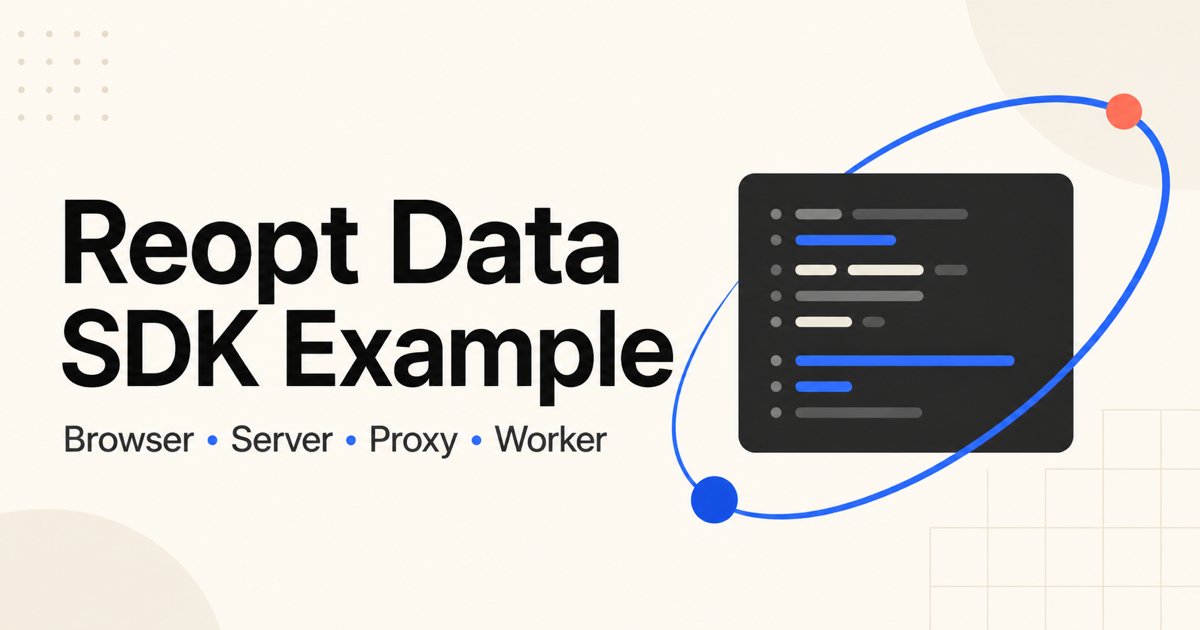
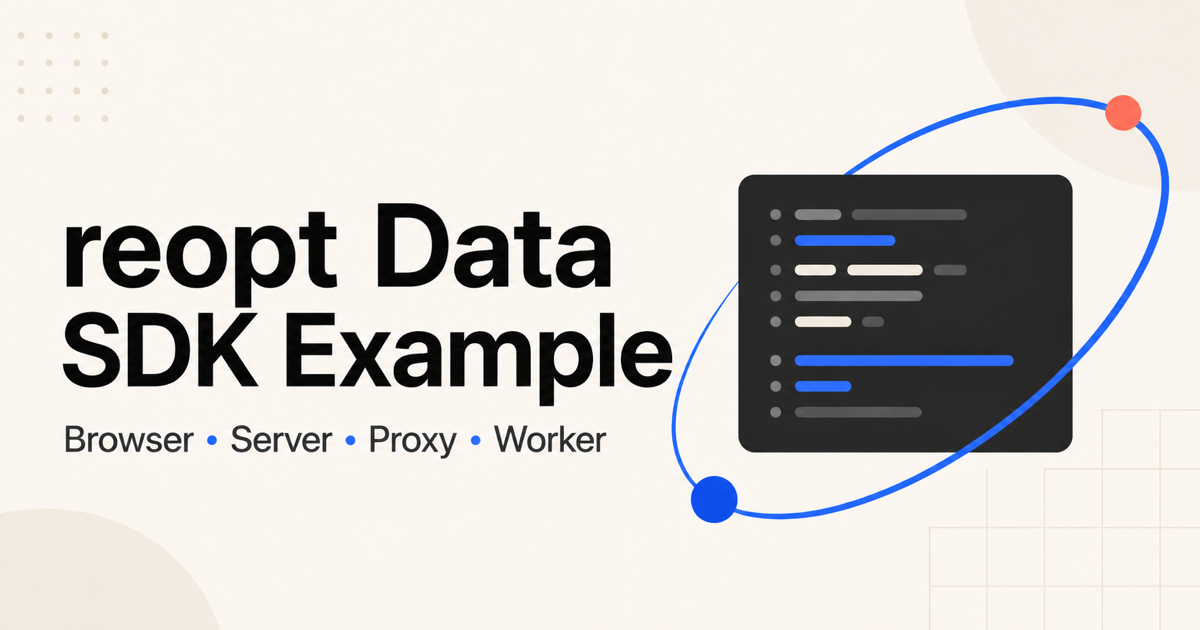
refactor(config): standardize reopt Data naming

diff --git a/scripts/reopt-setup.ts b/scripts/reopt-setup.ts
@@ -3,7 +3,7 @@
  * writes them to `.reopt-local.json` (gitignored).
  *
  *   pnpm reopt:setup                      # http://localhost:4001
- *   REOPT_BASE_URL=… pnpm reopt:setup
+ *   REOPT_DATA_BASE_URL=… pnpm reopt:setup
  *
  * Why a file and not env vars: the write key is resolved *per host* here, the
  * way a multi-brand storefront has to resolve it. The file is that store. It
@@ -16,14 +16,15 @@
 import { writeFileSync } from "node:fs";
 import { join } from "node:path";
 
-const BASE = (process.env.REOPT_BASE_URL ?? "http://localhost:4001").replace(
-  /\/+$/,
-  "",
-);
-const EMAIL = process.env.REOPT_SETUP_EMAIL ?? "shop-example@reopt.local";
-const ORG_NAME = process.env.REOPT_SETUP_ORG ?? "reopt shop example";
-const PROJECT_NAME = process.env.REOPT_SETUP_PROJECT ?? "reopt-shop";
-const HOSTS = (process.env.REOPT_SETUP_HOSTS ?? "localhost:4100,127.0.0.1:4100")
+const BASE = (
+  process.env.REOPT_DATA_BASE_URL ?? "http://localhost:4001"
+).replace(/\/+$/, "");
+const EMAIL = process.env.REOPT_DATA_SETUP_EMAIL ?? "shop-example@reopt.local";
+const ORG_NAME = process.env.REOPT_DATA_SETUP_ORG ?? "reopt shop example";
+const PROJECT_NAME = process.env.REOPT_DATA_SETUP_PROJECT ?? "reopt-shop";
+const HOSTS = (
+  process.env.REOPT_DATA_SETUP_HOSTS ?? "localhost:4100,127.0.0.1:4100"
+)
   .split(",")
   .map((h) => h.trim());
 

diff --git a/app/layout.tsx b/app/layout.tsx
@@ -38,24 +38,24 @@ import { diagnosticsEnabled } from "@/lib/runtime-config";
 export const metadata: Metadata = {
   metadataBase: new URL(process.env.BETTER_AUTH_URL ?? "http://localhost:4100"),
   title: {
-    default: "Arc Supply — Reopt Data SDK Example",
+    default: "Arc Supply — reopt Data SDK Example",
     template: "%s · Arc Supply",
   },
   description:
-    "A production-shaped storefront demonstrating the Reopt Data SDK across browser, server, proxy, and worker boundaries.",
+    "A production-shaped storefront demonstrating the reopt Data SDK across browser, server, proxy, and worker boundaries.",
   applicationName: "Arc Supply",
   openGraph: {
     type: "website",
     siteName: "Arc Supply",
-    title: "Reopt Data SDK Example",
+    title: "reopt Data SDK Example",
     description:
-      "Explore a production-shaped reference implementation for the Reopt Data SDK.",
+      "Explore a production-shaped reference implementation for the reopt Data SDK.",
   },
   twitter: {
     card: "summary_large_image",
-    title: "Reopt Data SDK Example",
+    title: "reopt Data SDK Example",
     description:
-      "A production-shaped reference implementation for the Reopt Data SDK.",
+      "A production-shaped reference implementation for the reopt Data SDK.",
   },
 };
 

diff --git a/lib/reopt/tenants.ts b/lib/reopt/tenants.ts
@@ -89,17 +89,17 @@ function readStoreFile(): TenantStore | null {
 }
 
 function storeFromEnv(): TenantStore | null {
-  const writeKey = process.env.REOPT_WRITE_KEY;
+  const writeKey = process.env.REOPT_DATA_WRITE_KEY;
   if (!writeKey) return null;
   return {
-    baseUrl: process.env.REOPT_BASE_URL ?? "http://localhost:4001",
+    baseUrl: process.env.REOPT_DATA_BASE_URL ?? "http://localhost:4001",
     projects: [
       {
         hosts: ["*"],
         name: "env",
         writeKey,
-        clientId: process.env.REOPT_CLIENT_ID ?? "",
-        clientSecret: process.env.REOPT_CLIENT_SECRET ?? "",
+        clientId: process.env.REOPT_DATA_CLIENT_ID ?? "",
+        clientSecret: process.env.REOPT_DATA_CLIENT_SECRET ?? "",
       },
     ],
   };
@@ -109,7 +109,7 @@ function storeFromEnv(): TenantStore | null {
 export function reoptBaseUrl(): string {
   return (
     unsafeTenantStore()?.baseUrl ??
-    process.env.REOPT_BASE_URL ??
+    process.env.REOPT_DATA_BASE_URL ??
     "http://localhost:4001"
   );
 }

diff --git a/e2e/storefront-quality.spec.ts b/e2e/storefront-quality.spec.ts
@@ -66,7 +66,7 @@ test.describe("storefront quality", () => {
     await expect(page.locator("#main-content")).toBeFocused();
   });
 
-  test("publishes the generated favicon and Reopt SDK social card", async ({
+  test("publishes the generated favicon and reopt SDK social card", async ({
     page,
     request,
   }) => {
@@ -74,11 +74,11 @@ test.describe("storefront quality", () => {
 
     await expect(page.locator('meta[property="og:title"]')).toHaveAttribute(
       "content",
-      "Reopt Data SDK Example",
+      "reopt Data SDK Example",
     );
     await expect(page.locator('meta[name="twitter:title"]')).toHaveAttribute(
       "content",
-      "Reopt Data SDK Example",
+      "reopt Data SDK Example",
     );
 
     const socialImage = await page

diff --git a/app/page.tsx b/app/page.tsx
@@ -45,7 +45,7 @@ export default function HomePage() {
           </h1>
           <p className="mt-5 max-w-lg text-base leading-7 text-white/75 sm:text-lg">
             Thoughtful tools for a calmer desk—built into a complete storefront
-            that demonstrates the Reopt Data SDK in a journey worth measuring.
+            that demonstrates the reopt Data SDK in a journey worth measuring.
           </p>
           <div className="mt-8 flex flex-wrap gap-3">
             <Link href="/products" className="store-button focus-ring">

diff --git a/app/manifest.ts b/app/manifest.ts
@@ -2,10 +2,10 @@ import type { MetadataRoute } from "next";
 
 export default function manifest(): MetadataRoute.Manifest {
   return {
-    name: "Arc Supply — Reopt Data SDK Example",
+    name: "Arc Supply — reopt Data SDK Example",
     short_name: "Arc Supply",
     description:
-      "A production-shaped storefront demonstrating the Reopt Data SDK.",
+      "A production-shaped storefront demonstrating the reopt Data SDK.",
     start_url: "/",
     display: "standalone",
     background_color: "#f7f4ed",

diff --git a/components/shop/site-footer.tsx b/components/shop/site-footer.tsx
@@ -15,7 +15,7 @@ export function SiteFooter() {
           <p className="text-lg font-semibold tracking-tight">Arc Supply</p>
           <p className="mt-2 text-sm leading-6 text-text-secondary">
             A fictional workspace-goods store built as a production-shaped
-            reference for the Reopt Data SDK. Products and orders in this demo
+            reference for the reopt Data SDK. Products and orders in this demo
             are not real purchases.
           </p>
         </div>

diff --git a/components/shop/site-header.tsx b/components/shop/site-header.tsx
@@ -40,7 +40,7 @@ export async function SiteHeader({ cartCount }: { cartCount: number }) {
           </span>
         </Link>
         <span className="hidden rounded-full border border-border bg-bg-subtle px-2.5 py-1 text-[11px] font-medium text-text-secondary xl:inline-flex">
-          Reopt SDK reference
+          reopt SDK reference
         </span>
         <nav
           className="ml-5 hidden items-center gap-5 text-sm md:flex"

diff --git a/app/guide/page.tsx b/app/guide/page.tsx
@@ -23,7 +23,7 @@ export default function GuidePage() {
           SDK capability map
         </h1>
         <p className="mt-3 text-lg leading-8 text-text-secondary">
-          Every Reopt Data SDK capability exercised by this storefront, with the
+          Every reopt Data SDK capability exercised by this storefront, with the
           exact source that demonstrates it.
         </p>
       </header>

diff --git a/playwright.production.config.ts b/playwright.production.config.ts
@@ -26,7 +26,7 @@ export default defineConfig({
     env: {
       BETTER_AUTH_SECRET: "playwright-production-secret-32-characters-minimum",
       BETTER_AUTH_URL: "http://localhost:4200",
-      REOPT_EXAMPLE_DIAGNOSTICS: "true",
+      REOPT_DATA_EXAMPLE_DIAGNOSTICS: "true",
     },
     url: "http://localhost:4200",
     reuseExistingServer: false,

diff --git a/lib/runtime-config.ts b/lib/runtime-config.ts
@@ -9,7 +9,7 @@ import { assertProductionRuntimeConfig } from "./runtime-config.shared.mjs";
 export function diagnosticsEnabled(): boolean {
   return (
     process.env.NODE_ENV !== "production" ||
-    process.env.REOPT_EXAMPLE_DIAGNOSTICS === "true"
+    process.env.REOPT_DATA_EXAMPLE_DIAGNOSTICS === "true"
   );
 }
 

diff --git a/README.md b/README.md
@@ -1,11 +1,13 @@
-# Reopt Data SDK Example
+# reopt Data SDK Example
 
 A production-shaped Next.js reference application for
 [`@reopt-ai/data-sdk-client`](https://www.npmjs.com/package/@reopt-ai/data-sdk-client)
 and
 [`@reopt-ai/data-sdk-server`](https://www.npmjs.com/package/@reopt-ai/data-sdk-server).
+See the [reopt Data documentation](https://data.reopt.ai/docs) for SDK concepts,
+configuration, and API guidance.
 
-![Reopt Data SDK Example Open Graph card](./app/opengraph-image.png)
+![reopt Data SDK Example Open Graph card](./app/opengraph-image.png)
 
 ![Arc Supply storefront, the fictional commerce experience used by this example](./docs/screenshots/storefront-home.png)
 
@@ -18,8 +20,8 @@ demo-only abstraction. Its products, accounts, and orders are illustrative and
 never represent real purchases.
 
 The Arc Supply name, catalogue, logo, and product photography were created
-solely for this example. They are not Reopt corporate brand assets and should
-not be reused to represent Reopt or a real merchant.
+solely for this example. They are not reopt corporate brand assets and should
+not be reused to represent reopt or a real merchant.
 
 ## Why this repository exists
 
@@ -79,7 +81,7 @@ pnpm install
 pnpm dev
 ```
 
-Open [http://localhost:4100](http://localhost:4100). No Reopt credentials are
+Open [http://localhost:4100](http://localhost:4100). No reopt credentials are
 required to explore the app: a missing write key creates a disabled, no-op SDK
 client and the storefront continues to work. Local diagnostics show that
 fail-open state explicitly.
@@ -96,18 +98,19 @@ pnpm dev
 
 The relevant variables are:
 
-| Variable                    | Purpose                                            | Browser-visible |
-| --------------------------- | -------------------------------------------------- | --------------- |
-| `REOPT_BASE_URL`            | Origin of the Reopt data endpoint                  | Indirectly      |
-| `REOPT_WRITE_KEY`           | Public project write key                           | Yes             |
-| `REOPT_CLIENT_ID`           | Server API client identifier                       | No              |
-| `REOPT_CLIENT_SECRET`       | Server API client secret                           | **Never**       |
-| `BETTER_AUTH_SECRET`        | Session-signing secret for the example application | No              |
-| `BETTER_AUTH_URL`           | Public origin of this application                  | Yes             |
-| `REOPT_EXAMPLE_DIAGNOSTICS` | Opt-in production diagnostics                      | No              |
+| Variable                         | Purpose                                            | Required                  | Browser-visible |
+| -------------------------------- | -------------------------------------------------- | ------------------------- | --------------- |
+| `REOPT_DATA_BASE_URL`            | Origin of the reopt Data endpoint                  | No; defaults to local     | Indirectly      |
+| `REOPT_DATA_WRITE_KEY`           | Public project write key                           | No; SDK fails open        | Yes             |
+| `REOPT_DATA_CLIENT_ID`           | Server API client identifier                       | No; server SDK fails open | No              |
+| `REOPT_DATA_CLIENT_SECRET`       | Server API client secret                           | No; server SDK fails open | **Never**       |
+| `BETTER_AUTH_SECRET`             | Session-signing secret for the example application | Production only           | No              |
+| `BETTER_AUTH_URL`                | Public origin of this application                  | Production only           | Yes             |
+| `REOPT_DATA_EXAMPLE_DIAGNOSTICS` | Opt-in production diagnostics                      | No; defaults to `false`   | No              |
+| `REOPT_DATA_PATH`                | Path to a local `reopt-data` checkout              | Local SDK mode only       | No              |
 
-Do not add `NEXT_PUBLIC_` to the Reopt variables. The root layout resolves the
-write key on the server and passes only the public value through the client
+Do not add `NEXT_PUBLIC_` to the reopt Data variables. The root layout resolves
+the write key on the server and passes only the public value through the client
 component boundary. This makes the single-tenant environment fallback behave
 like the request-scoped multi-tenant implementation used by the example.
 
@@ -147,7 +150,7 @@ tab, added through the panel's `panels` prop. A customer application keeps the
 default.
 
 The SDK mode footer still exposes deployment metadata and stays hidden in
-production unless `REOPT_EXAMPLE_DIAGNOSTICS=true`; do not enable it in a
+production unless `REOPT_DATA_EXAMPLE_DIAGNOSTICS=true`; do not enable it in a
 customer application.
 
 | Route              | Integration exercised                                               |
